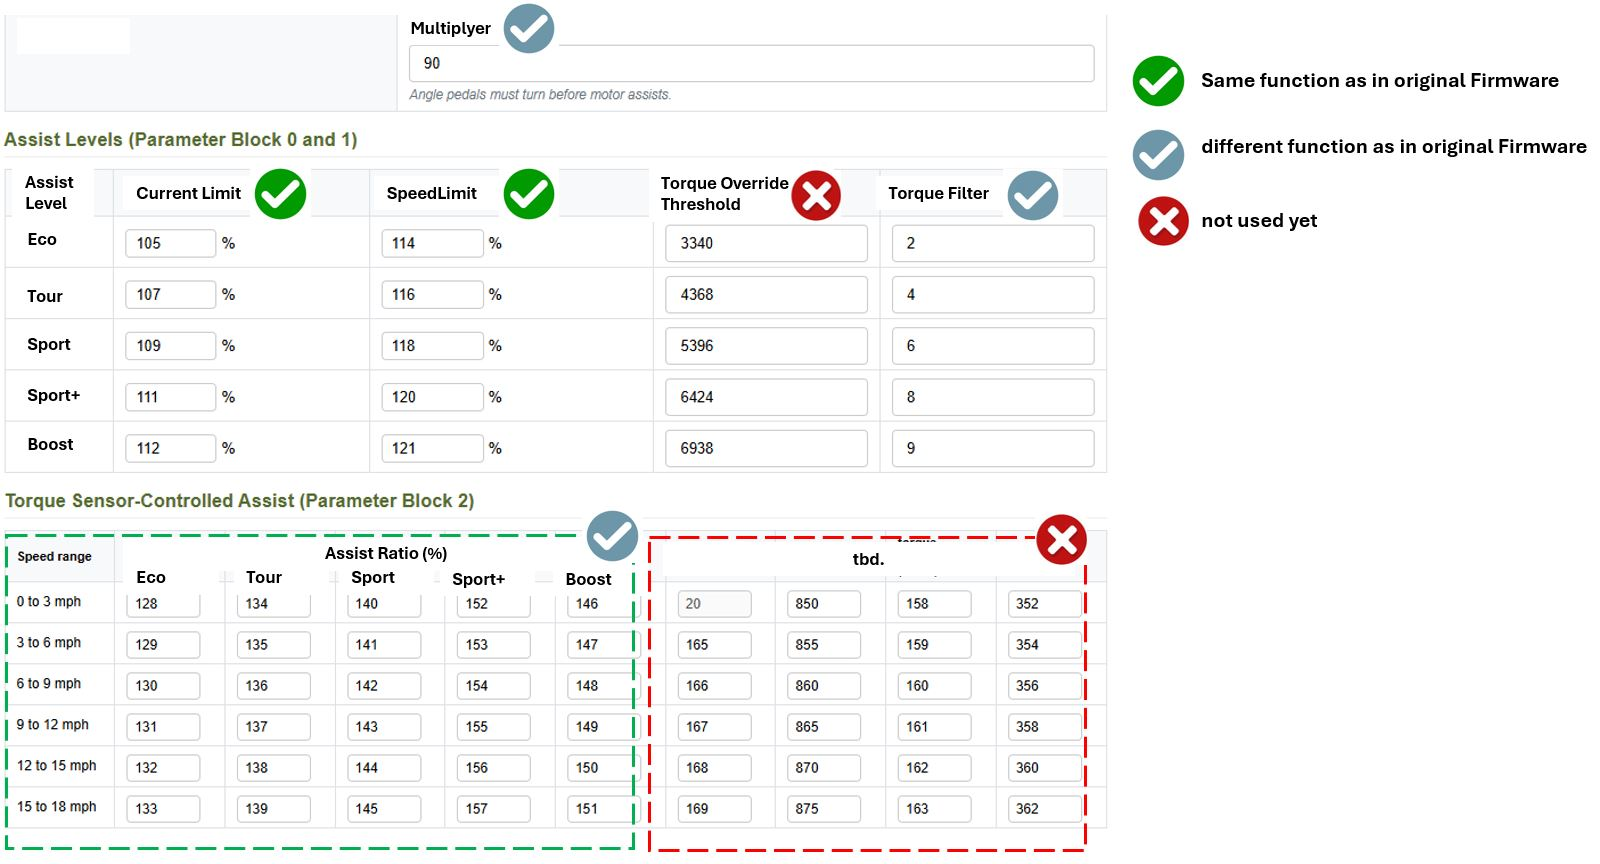
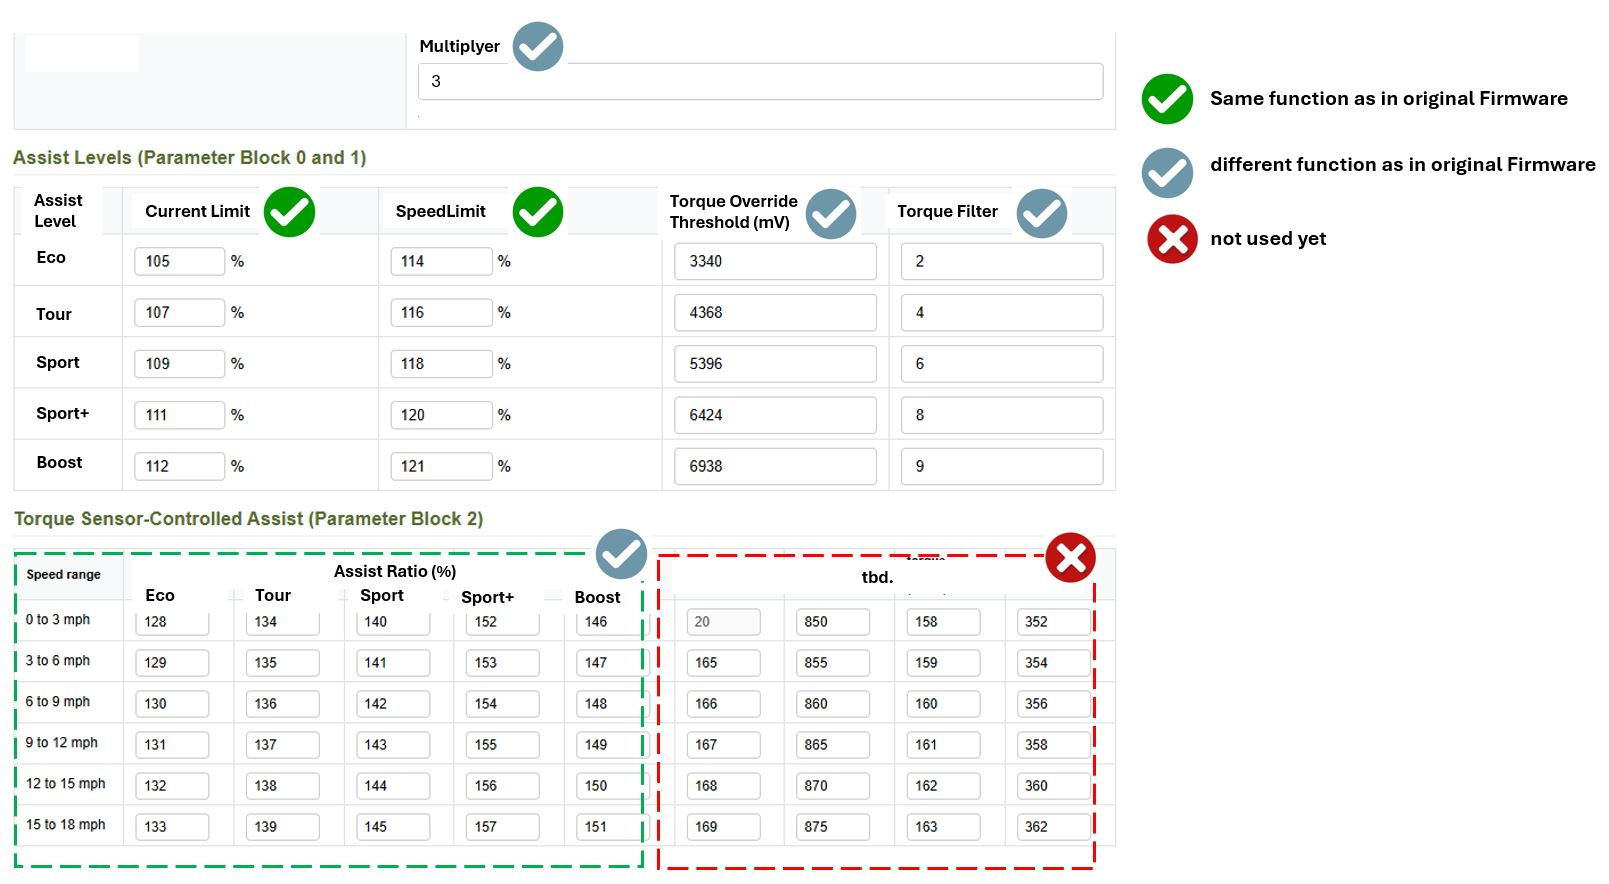
torque override implemented

diff --git a/src/main.c b/src/main.c
@@ -160,6 +160,7 @@ uint16_t switchtime[3];
 uint16_t ui16_erps=0;
 uint32_t ui32_erps_cumulated=0;
 uint16_t mapped_throttle=0;
+uint16_t mapped_torque=0;
 char char_dyn_adc_state_old=1;
 int16_t i16_ph1_current=0;
 int16_t i16_ph2_current=0;
@@ -345,8 +346,10 @@ int main(void)
     		MS.cadence=0;
     		MS.torque_on_crank=750;
     		MS.p_human=0;
-    		PI_iq.integral_part=0;
-    		PI_id.integral_part=0;
+    		if(!MS.i_q_setpoint){
+				PI_iq.integral_part=0;
+				PI_id.integral_part=0;
+    		}
     		if(torque_cumulated)torque_cumulated--;
     	}
     	// update scaled current and speed
@@ -392,14 +395,17 @@ int main(void)
             }
             //calculate iq setpoint
             mapped_throttle= map(adc_value[1], THROTTLE_OFFSET, THROTTLE_MAX, 0, PH_CURRENT_MAX);
-
+            mapped_torque= map(MS.torque_on_crank, MP.TQO_threshold[level_to_array_element[MS.assist_level]], 3300, 0, PH_CURRENT_MAX);
             //MS.Speedx100=250;
 
     		MS.i_q_setpoint_temp= MP.TS_coeff*MS.p_human*interpolate_assistfactor()/100;
-    		//limit setpoint to the max value according to the current setting.
 
 
+    		//throttle override
     		if(mapped_throttle>MS.i_q_setpoint_temp)MS.i_q_setpoint_temp=mapped_throttle;
+    		//torque override
+    		if(mapped_torque>MS.i_q_setpoint_temp)MS.i_q_setpoint_temp=mapped_torque;
+    		//limit setpoint to the max value according to the current setting.
     		if(MS.i_q_setpoint_temp>phase_current_max_scaled)MS.i_q_setpoint_temp = phase_current_max_scaled;
     		if(MP.legalflag){
 				if(!MS.brake_active_flag){ //only ramp down if no regen active
@@ -411,7 +417,6 @@ int main(void)
 					}
 				}
     		}
-    		//MS.i_q_setpoint_temp=map(MS.Battery_Current, MP.battery_current_max-500,MP.battery_current_max+500,MS.i_q_setpoint_temp,0);
 
     		MS.i_q_setpoint=MS.i_q_setpoint_temp;
             if(MS.i_q_setpoint){
